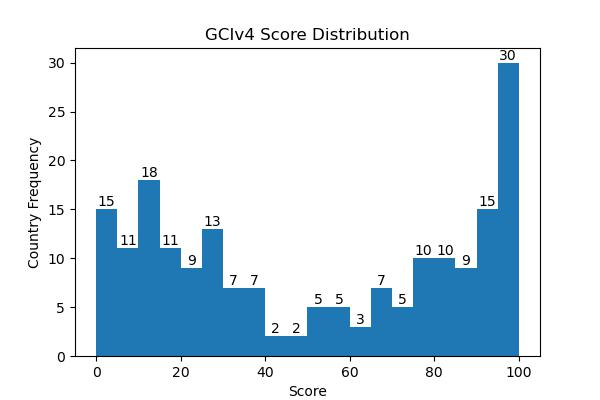
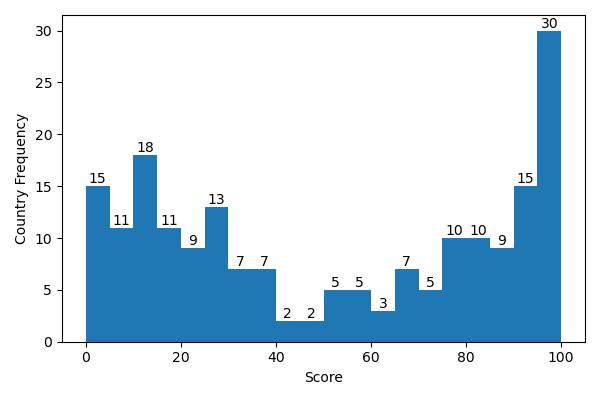
Fixing correlation charts.

diff --git a/cyberindices.py b/cyberindices.py
@@ -55,9 +55,10 @@ def plot_histogram(data_column, title):
     
     plt.xlabel('Score')
     plt.ylabel('Country Frequency')
-    plt.title(title)
+    #plt.title(title)
     
 plot_histogram("GCIv4_Score", "GCIv4 Score Distribution")
+plt.tight_layout() 
 plt.savefig('jpeg/gciv4_freq.jpeg')
 
 def plot_histogram(data_column, title):
@@ -73,15 +74,18 @@ def plot_histogram(data_column, title):
     
     plt.xlabel('Score')
     plt.ylabel('Country Frequency')
-    plt.title(title)
+    #plt.title(title)
 
 plot_histogram("MIT_Score", "MIT Score Distribution")
+plt.tight_layout() 
 plt.savefig('jpeg/mit_freq.jpeg')
 
 plot_histogram("Oxford_Score", "Oxford Score Distribution")
+plt.tight_layout() 
 plt.savefig('jpeg/oxford_freq.jpeg')
 
 plot_histogram("Harvard_Score", "Harvard Score Distribution")
+plt.tight_layout() 
 plt.savefig('jpeg/harvard_freq.jpeg')
 
 
@@ -150,7 +154,11 @@ def plot_correlation(df, var_x, var_y, title):
     plt.xlabel(var_x)
     plt.ylabel(var_y)
     plt.tight_layout()
-    plt.show()
+    
+    # Save the plot with filename in format "corr_varxvary.jpeg"
+    filename = f"jpeg/corr_{var_x.replace(' ', '_')}_{var_y.replace(' ', '_')}.jpeg"
+    plt.savefig(filename, bbox_inches='tight')
+    plt.close()  # Close the figure to free up memory
 
 # Example usage:
 plot_correlation(index_tots, 
@@ -167,6 +175,11 @@ plot_correlation(index_tots,
                  'Oxford_Score',
                  'GCIv4_Score',
                  'Correlation between Oxford and GCI Index')
+
+plot_correlation(index_tots,
+                 'Harvard_Score',
+                 'GCIv4_Score',
+                 'Correlation between Harvard and GCI Index')
 
 
 ################################
